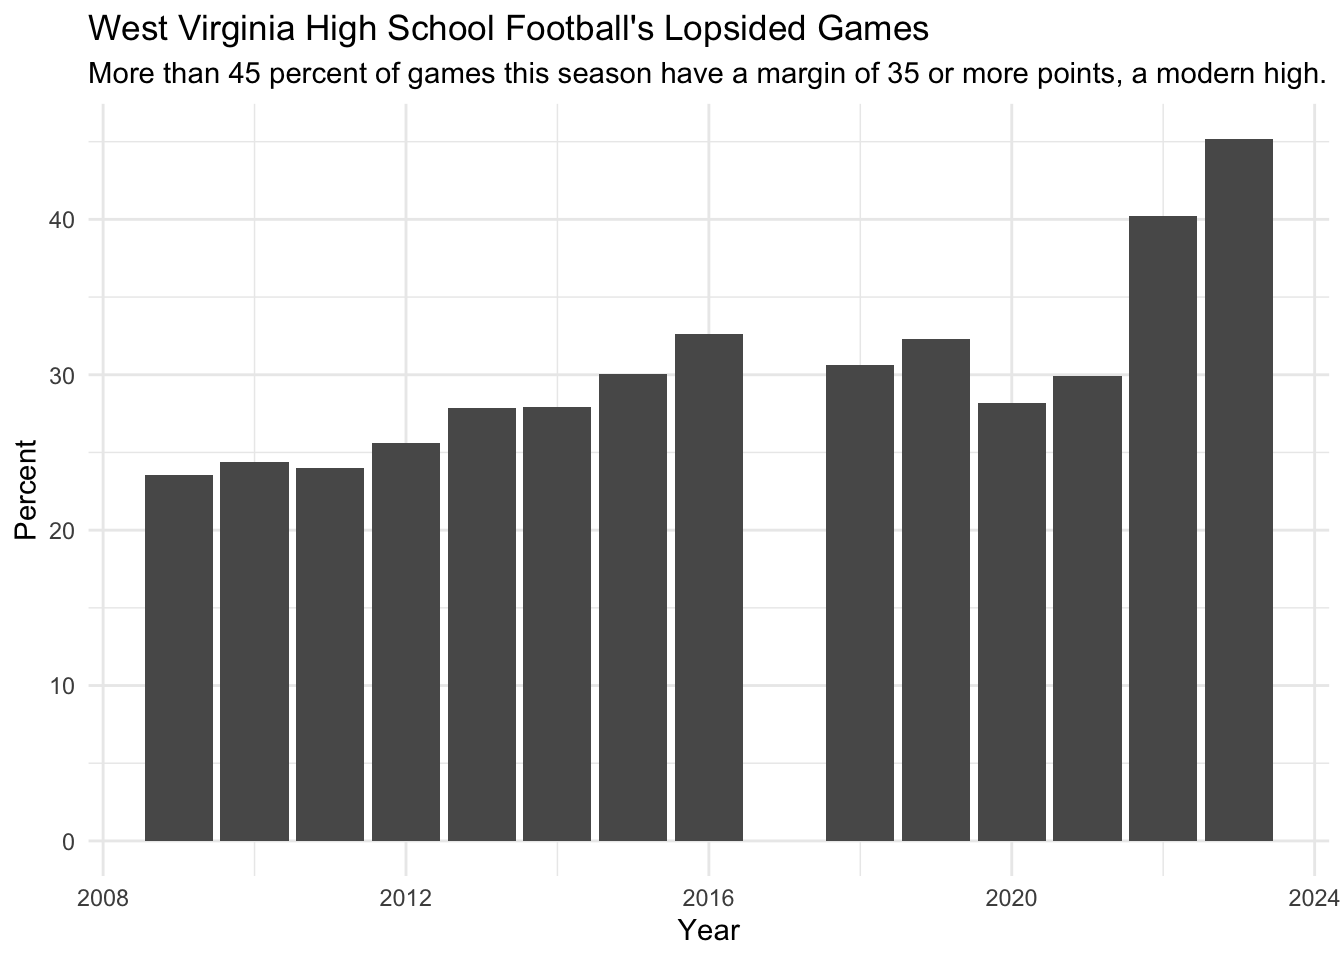
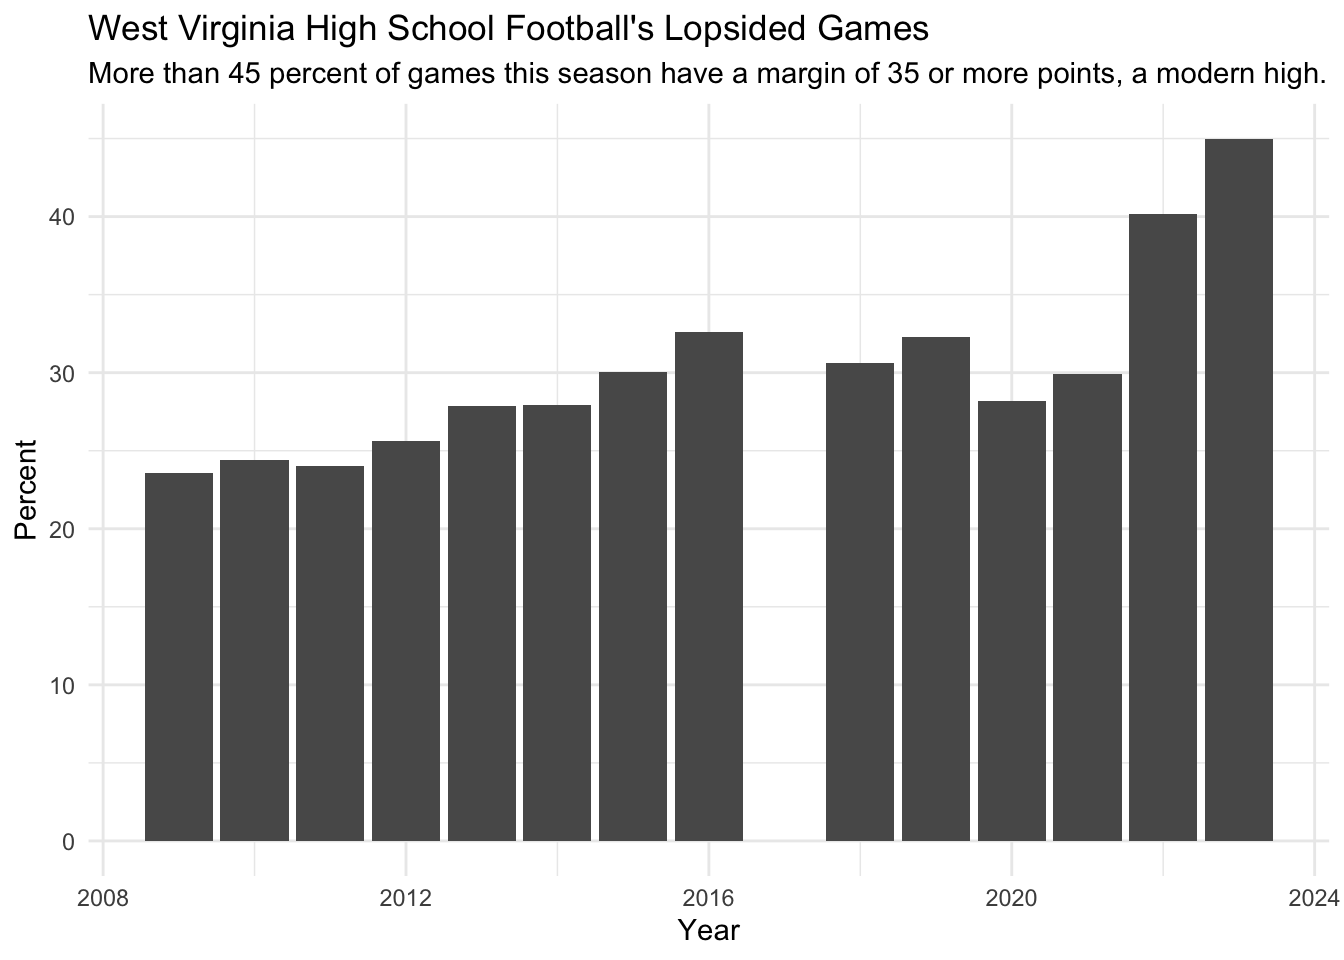
runaway games

diff --git a/wv_scores.html b/wv_scores.html
@@ -145,7 +145,7 @@ pre > code.sourceCode > span > a:first-child::before { text-decoration: underlin
 <pre><code># A tibble: 14 × 4
     year all_games thirtyfive_plus_games   pct
    &lt;dbl&gt;     &lt;int&gt;                 &lt;int&gt; &lt;dbl&gt;
- 1  2023       447                   202  45.2
+ 1  2023       449                   202  45.0
  2  2022       540                   217  40.2
  3  2016       518                   169  32.6
  4  2019       545                   176  32.3
@@ -256,6 +256,63 @@ pre > code.sourceCode > span > a:first-child::before { text-decoration: underlin
 5 Hurricane        2023       41.8
 6 Martinsburg      2023       41.2
 7 Wahama           2023       36.6</code></pre>
+</div>
+</div>
+</section>
+<section id="runaway-games---49-point-margins" class="level2">
+<h2 class="anchored" data-anchor-id="runaway-games---49-point-margins">Runaway Games - 49+ point margins</h2>
+<div class="cell">
+<div class="sourceCode cell-code" id="cb21"><pre class="sourceCode r code-with-copy"><code class="sourceCode r"><span id="cb21-1"><a href="#cb21-1" aria-hidden="true" tabindex="-1"></a>wv_games <span class="sc">|&gt;</span> </span>
+<span id="cb21-2"><a href="#cb21-2" aria-hidden="true" tabindex="-1"></a>  <span class="fu">filter</span>(differential <span class="sc">&gt;=</span> <span class="dv">49</span>) <span class="sc">|&gt;</span> </span>
+<span id="cb21-3"><a href="#cb21-3" aria-hidden="true" tabindex="-1"></a>  <span class="fu">group_by</span>(year) <span class="sc">|&gt;</span> </span>
+<span id="cb21-4"><a href="#cb21-4" aria-hidden="true" tabindex="-1"></a>  <span class="fu">summarise</span>(<span class="at">games =</span> <span class="fu">n</span>()) <span class="sc">|&gt;</span> </span>
+<span id="cb21-5"><a href="#cb21-5" aria-hidden="true" tabindex="-1"></a>  <span class="fu">arrange</span>(<span class="fu">desc</span>(games))</span></code><button title="Copy to Clipboard" class="code-copy-button"><i class="bi"></i></button></pre></div>
+<div class="cell-output cell-output-stdout">
+<pre><code># A tibble: 14 × 2
+    year games
+   &lt;dbl&gt; &lt;int&gt;
+ 1  2023    78
+ 2  2022    73
+ 3  2015    54
+ 4  2021    53
+ 5  2016    50
+ 6  2013    49
+ 7  2018    48
+ 8  2019    48
+ 9  2014    44
+10  2020    40
+11  2010    38
+12  2009    37
+13  2012    35
+14  2011    34</code></pre>
+</div>
+</div>
+</section>
+<section id="runaway-games---70-point-margins" class="level2">
+<h2 class="anchored" data-anchor-id="runaway-games---70-point-margins">Runaway Games - 70+ point margins</h2>
+<div class="cell">
+<div class="sourceCode cell-code" id="cb23"><pre class="sourceCode r code-with-copy"><code class="sourceCode r"><span id="cb23-1"><a href="#cb23-1" aria-hidden="true" tabindex="-1"></a>wv_games <span class="sc">|&gt;</span> </span>
+<span id="cb23-2"><a href="#cb23-2" aria-hidden="true" tabindex="-1"></a>  <span class="fu">filter</span>(differential <span class="sc">&gt;=</span> <span class="dv">70</span>) <span class="sc">|&gt;</span> </span>
+<span id="cb23-3"><a href="#cb23-3" aria-hidden="true" tabindex="-1"></a>  <span class="fu">group_by</span>(year) <span class="sc">|&gt;</span> </span>
+<span id="cb23-4"><a href="#cb23-4" aria-hidden="true" tabindex="-1"></a>  <span class="fu">summarise</span>(<span class="at">games =</span> <span class="fu">n</span>()) <span class="sc">|&gt;</span> </span>
+<span id="cb23-5"><a href="#cb23-5" aria-hidden="true" tabindex="-1"></a>  <span class="fu">arrange</span>(<span class="fu">desc</span>(games))</span></code><button title="Copy to Clipboard" class="code-copy-button"><i class="bi"></i></button></pre></div>
+<div class="cell-output cell-output-stdout">
+<pre><code># A tibble: 13 × 2
+    year games
+   &lt;dbl&gt; &lt;int&gt;
+ 1  2023    13
+ 2  2014     5
+ 3  2018     5
+ 4  2013     4
+ 5  2019     4
+ 6  2020     4
+ 7  2021     4
+ 8  2015     3
+ 9  2009     2
+10  2012     2
+11  2010     1
+12  2011     1
+13  2022     1</code></pre>
 </div>
 </div>
 </section>
